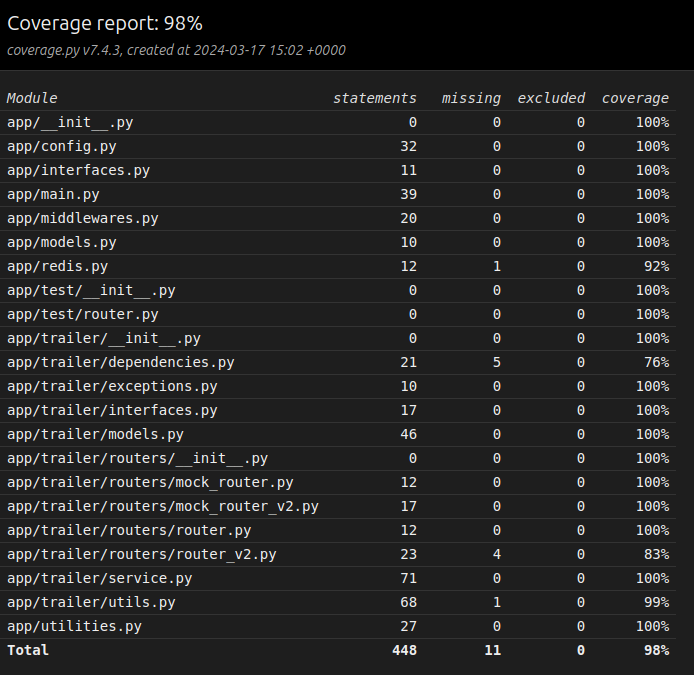
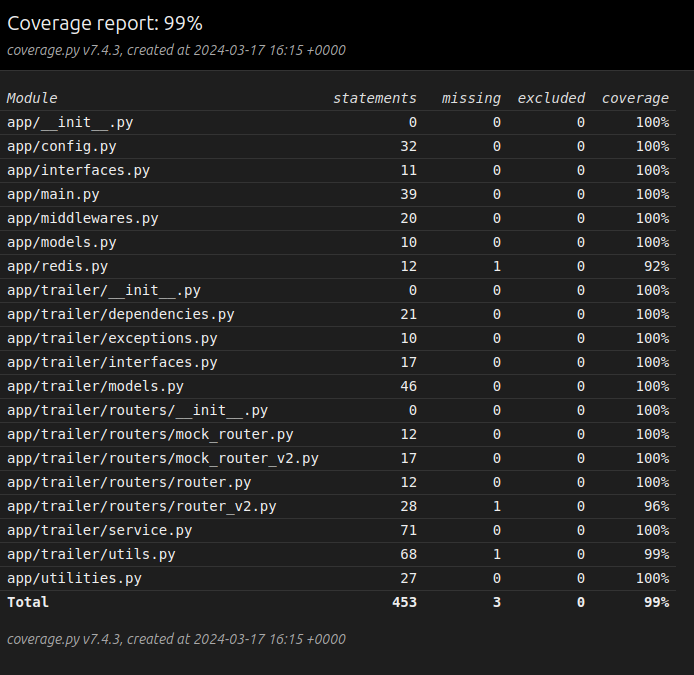
Add tests for dependencies and v2 router

diff --git a/tests/integration/test_v2_trailer_endpoint.py b/tests/integration/test_v2_trailer_endpoint.py
@@ -1,5 +1,8 @@
 import json
-from httpx import AsyncClient
+from httpx import ASGITransport, AsyncClient
+
+from app.config import ConfigBase, get_config
+from app.main import init_fastapi
 
 
 async def test_search_endpoint(trailer_v2_fastapi: AsyncClient) -> None:
@@ -69,12 +72,50 @@ async def test_search_by_imdb_id_endpoint_invalid_imdb_id(
     assert r.json()['detail'] == 'INVALID_IMDB_ID'
 
 
-# async def test_search_by_imdb_id_endpoint_validation_error(
-#     trailer_v2_fastapi: AsyncClient,
-# ) -> None:
-#     imdb_id = 'indiana jones'
-#     body = {'title': True}
+async def test_search_by_imdb_id_omdb_api_error(mock_config: ConfigBase) -> None:
+    app = init_fastapi(testing=True)
 
-#     r = await trailer_v2_fastapi.post(f'/trailer/search/{imdb_id}', json=body)
+    def get_mock_config() -> ConfigBase:
+        return mock_config
 
-#     assert r.status_code == 400
+    app.dependency_overrides[get_config] = get_mock_config
+
+    async with AsyncClient(
+        base_url='http://localhost:8000',
+        transport=ASGITransport(app),  # type: ignore
+    ) as client:
+        r = await client.get('/api/v2/trailer/search/tt0367882')
+        assert r.status_code == 400
+        assert r.json()['detail'] == 'OMDB_API_ERROR'
+
+
+async def test_search_by_imdb_id_youtube_api_error(mock_config: ConfigBase) -> None:
+    app = init_fastapi(testing=True)
+
+    config = get_config()
+
+    def get_mock_config() -> ConfigBase:
+        mock_config.OMDB_API_KEY = config.OMDB_API_KEY
+        return mock_config
+
+    app.dependency_overrides[get_config] = get_mock_config
+
+    async with AsyncClient(
+        base_url='http://localhost:8000',
+        transport=ASGITransport(app),  # type: ignore
+    ) as client:
+        r = await client.get('/api/v2/trailer/search/tt0367882')
+        assert r.status_code == 400
+        assert r.json()['detail'] == 'YOUTUBE_API_ERROR'
+
+
+async def test_search_by_imdb_id_json_error():
+    app = init_fastapi(testing=True)
+
+    async with AsyncClient(
+        base_url='http://localhost:8000',
+        transport=ASGITransport(app),  # type: ignore
+    ) as client:
+        r = await client.get('/api/v2/trailer/search/kl23j423j')
+        assert r.status_code == 404
+        assert r.json()['detail'] == 'INVALID_IMDB_ID'

diff --git a/app/trailer/routers/router_v2.py b/app/trailer/routers/router_v2.py
@@ -1,3 +1,4 @@
+from json import JSONDecodeError
 from fastapi import APIRouter, HTTPException, status
 
 from app import models
@@ -6,6 +7,7 @@ from app.trailer.exceptions import (
     InvalidIMDBId,
     InvalidTrailerData,
     MovieNotFoundError,
+    OmdbApiError,
     YoutubeApiError,
 )
 
@@ -76,8 +78,8 @@ async def search_movies_compact_endpoint(title: str, service: GetTrailerService)
         },
         status.HTTP_400_BAD_REQUEST: {
             'model': models.HttpError,
-            'description': 'Returns a 400 if there a problem with the youtube api or \
-                invalid data',
+            'description': 'Returns a 400 if there a problem with the youtube api, \
+                thee movie data api, or invalid data',
         },
         status.HTTP_404_NOT_FOUND: {
             'model': models.HttpError,
@@ -92,12 +94,20 @@ async def search_movie_data_with_trailer(imdb_id: str, service: GetTrailerServic
         )
     except InvalidIMDBId as e:
         raise HTTPException(status_code=status.HTTP_404_NOT_FOUND, detail=str(e))
+    except OmdbApiError:
+        raise HTTPException(
+            status_code=status.HTTP_400_BAD_REQUEST, detail='OMDB_API_ERROR'
+        )
     except YoutubeApiError:
         raise HTTPException(
             status_code=status.HTTP_400_BAD_REQUEST, detail='YOUTUBE_API_ERROR'
         )
     except InvalidTrailerData as e:
         raise HTTPException(status_code=status.HTTP_400_BAD_REQUEST, detail=str(e))
+    except JSONDecodeError:
+        raise HTTPException(
+            status_code=status.HTTP_404_NOT_FOUND, detail='INVALID_IMDB_ID'
+        )
     # except ValidationError:
     #     raise HTTPException(
     #         status_code=status.HTTP_400_BAD_REQUEST, detail='INVALID_REQUEST'

diff --git a/tests/unit_tests/test_fastapi.py b/tests/unit_tests/test_fastapi.py
@@ -1,10 +1,16 @@
 import os
-from fastapi import FastAPI
+from typing import Annotated
+from fastapi import Depends, FastAPI
 from httpx import ASGITransport, AsyncClient
 import pytest
 from _pytest.logging import LogCaptureFixture
 
+from app.config import ConfigBase
+from app.interfaces import ICacheProvider
 from app.main import init_fastapi, lifespan, app as initiated_app
+from app.trailer.dependencies import get_trailer_service
+from app.trailer.interfaces import IMovieDataProvider, ITrailerProvider
+from app.trailer.service import TrailerService
 
 
 @pytest.mark.asyncio
@@ -45,3 +51,18 @@ async def test_health_endpoint():
         r = await client.get('health')
         assert r.status_code == 200
         assert r.json()['alive'] is True
+
+
+async def test_trailer_service_dependency():
+    app = FastAPI()
+
+    @app.get('/')
+    async def trailer_service(
+        service: Annotated[TrailerService, Depends(get_trailer_service)],
+    ):
+        assert isinstance(service._config, ConfigBase)
+        assert isinstance(service._cache_provider, ICacheProvider)
+        assert isinstance(service._movie_provider, IMovieDataProvider)
+        assert isinstance(service._trailer_provider, ITrailerProvider)
+        return True
+
